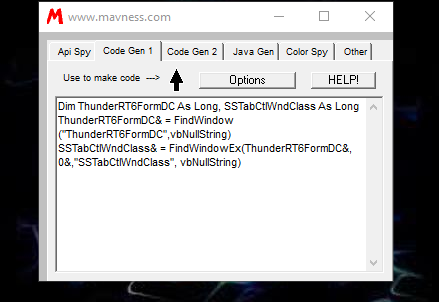
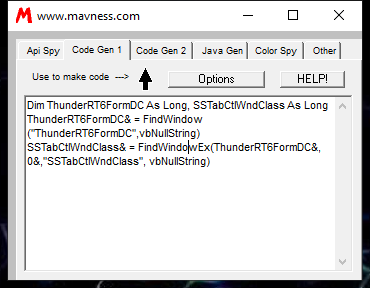
WIP: splash screen handling (research in progress)

diff --git a/tools/smart_walkthrough.py b/tools/smart_walkthrough.py
@@ -552,6 +552,79 @@ def run_walkthrough(zip_stem, exe_name, out_dir, passwords=None):
     if not main_form_name and safe_targets:
         main_form_name = safe_targets[0]['form']
 
+    # Detect splash screen: startup form where ALL targets are show_form (just transitions)
+    startup_targets = [t for t in safe_targets if t['form'] == main_form_name]
+    is_splash = (startup_targets and
+                 all(t['action'] == 'show_form' or t['type'] in ('Form', 'unknown')
+                     for t in startup_targets))
+    if is_splash:
+        log.info('run_walkthrough: startup form %s looks like a splash screen, clicking to dismiss', main_form_name)
+        # Click center of the form to trigger the show_form transition
+        QMP.click(main_win['x'] + main_win['w'] // 2, main_win['y'] + main_win['h'] // 2)
+        _free(150)
+        # Dismiss any nag screens / msgboxes that appear
+        dismiss_msgboxes()
+        _free(50)
+        # Wait for a new/different VB6 form to appear
+        old_title = main_win['title']
+        for _attempt in range(30):
+            _free(50)
+            windows = wd.snapshot()
+            forms = wd.find_vb_forms(windows)
+            forms.sort(key=lambda w: w['w'] * w['h'], reverse=True)
+            new_forms = [f for f in forms if f['title'] != old_title]
+            if new_forms:
+                main_win = new_forms[0]
+                log.info('run_walkthrough: splash dismissed, new main form "%s" %dx%d',
+                         main_win['title'], main_win['w'], main_win['h'])
+                # Recapture main form
+                QMP.park_cursor()
+                _free(30)
+                capture_cropped(main_win, str(out_dir / 'screenshot.png'))
+                capture_cropped(main_win, str(out_dir / 'main_form.png'))
+                next_frame('Main form', 'main')
+                # Recompute viewport
+                child_x = main_win['x'] + main_win['w'] + 10
+                child_y = main_win['y']
+                vp_x = max(main_win['x'] - 2, 0)
+                vp_y = max(main_win['y'] - 2, 0)
+                vp_w = min(main_win['w'] + max_child_w + 20, SCREEN_W - vp_x)
+                vp_h = min(max(main_win['h'], max_child_h) + 4, SCREEN_H - vp_y)
+                viewport[0] = {'x': vp_x, 'y': vp_y, 'w': vp_w, 'h': vp_h}
+                # Find the new main form name from targets
+                target_form = startup_targets[0].get('target_form', '')
+                if target_form and target_form.lower() not in ('me', 'self', ''):
+                    main_form_name = target_form
+                else:
+                    form_counts = {}
+                    for t in safe_targets:
+                        if t['form'] != main_form_name:
+                            form_counts[t['form']] = form_counts.get(t['form'], 0) + 1
+                    if form_counts:
+                        main_form_name = max(form_counts, key=form_counts.get)
+                log.info('run_walkthrough: now targeting form %s', main_form_name)
+                # Recompute nc_offset for the new main form
+                nc_x_off, nc_y_off = 3, 26
+                if decomp_base.exists():
+                    for frm_candidate in [decomp_base / f'{main_form_name}.frm',
+                                          decomp_base / 'forms' / f'{main_form_name}.frm']:
+                        if not frm_candidate.exists():
+                            continue
+                        text = frm_candidate.read_text(errors='replace')
+                        cw_m = re.search(r'ClientWidth\s*=\s*(\d+)', text)
+                        ch_m = re.search(r'ClientHeight\s*=\s*(\d+)', text)
+                        if cw_m and ch_m:
+                            client_w = int(cw_m.group(1)) // TWIPS_PER_PX
+                            client_h = int(ch_m.group(1)) // TWIPS_PER_PX
+                            nc_x_off = max((main_win['w'] - client_w) // 2, 0)
+                            nc_y_off = max(main_win['h'] - client_h - nc_x_off, 0)
+                            log.info('nc_offset: recomputed nc_x=%d nc_y=%d for %s',
+                                     nc_x_off, nc_y_off, main_form_name)
+                        break
+                break
+        else:
+            log.warning('run_walkthrough: splash click did not produce a new form')
+
     # Click each safe target on the startup form
     for target in safe_targets:
         if target['form'] != main_form_name:
